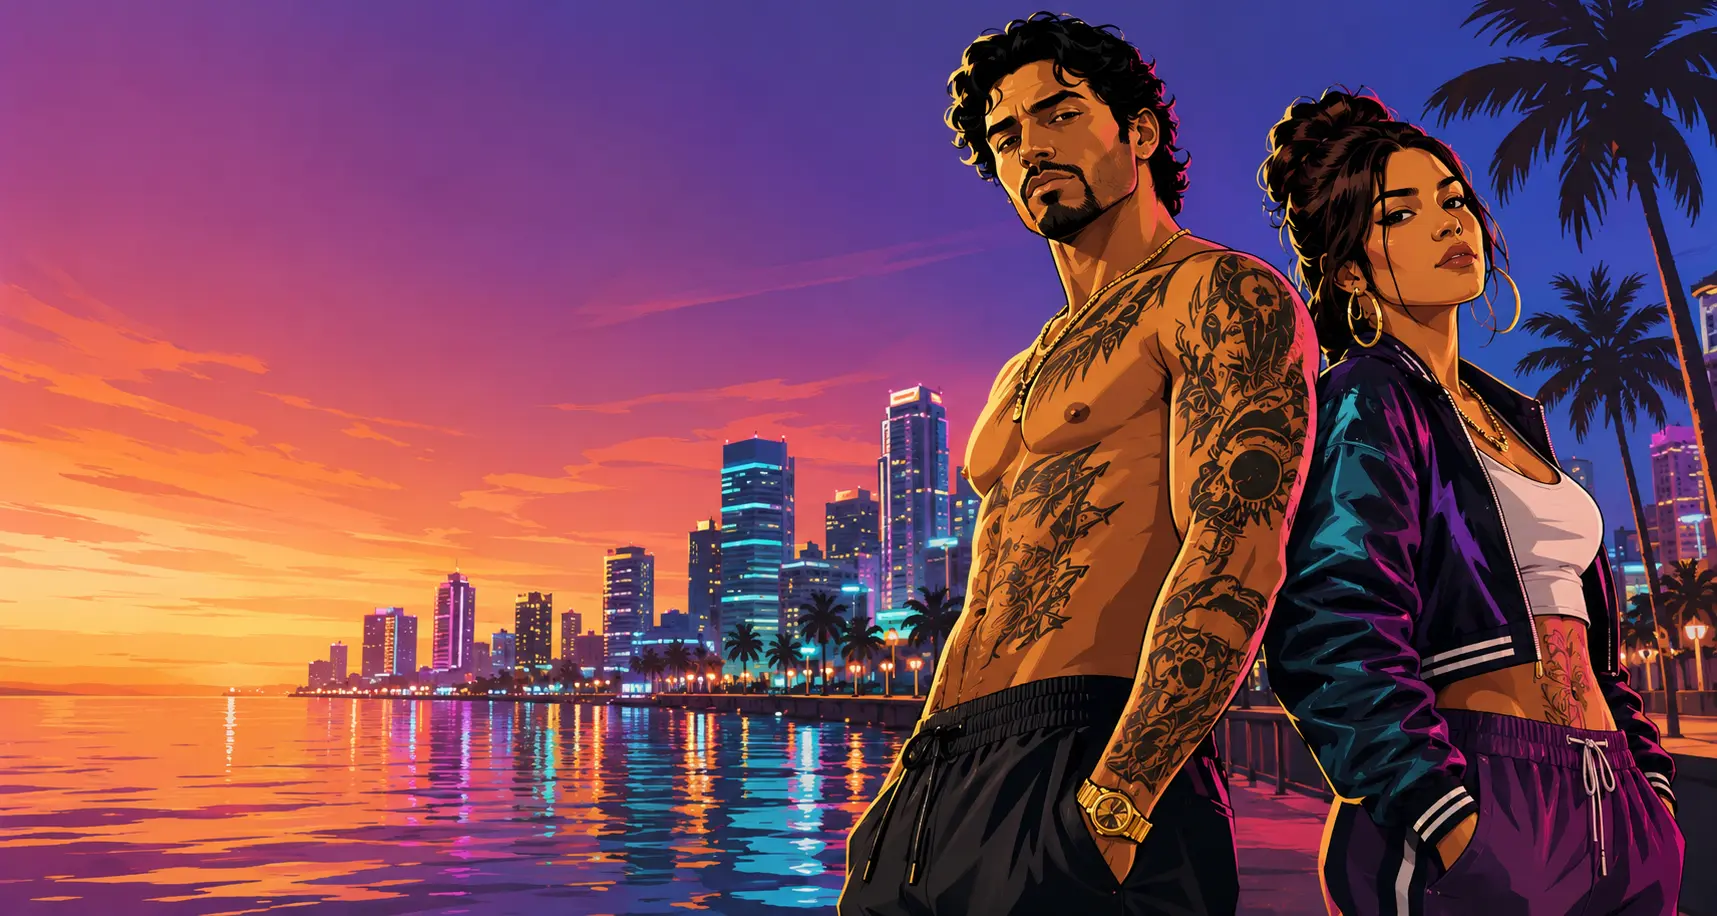
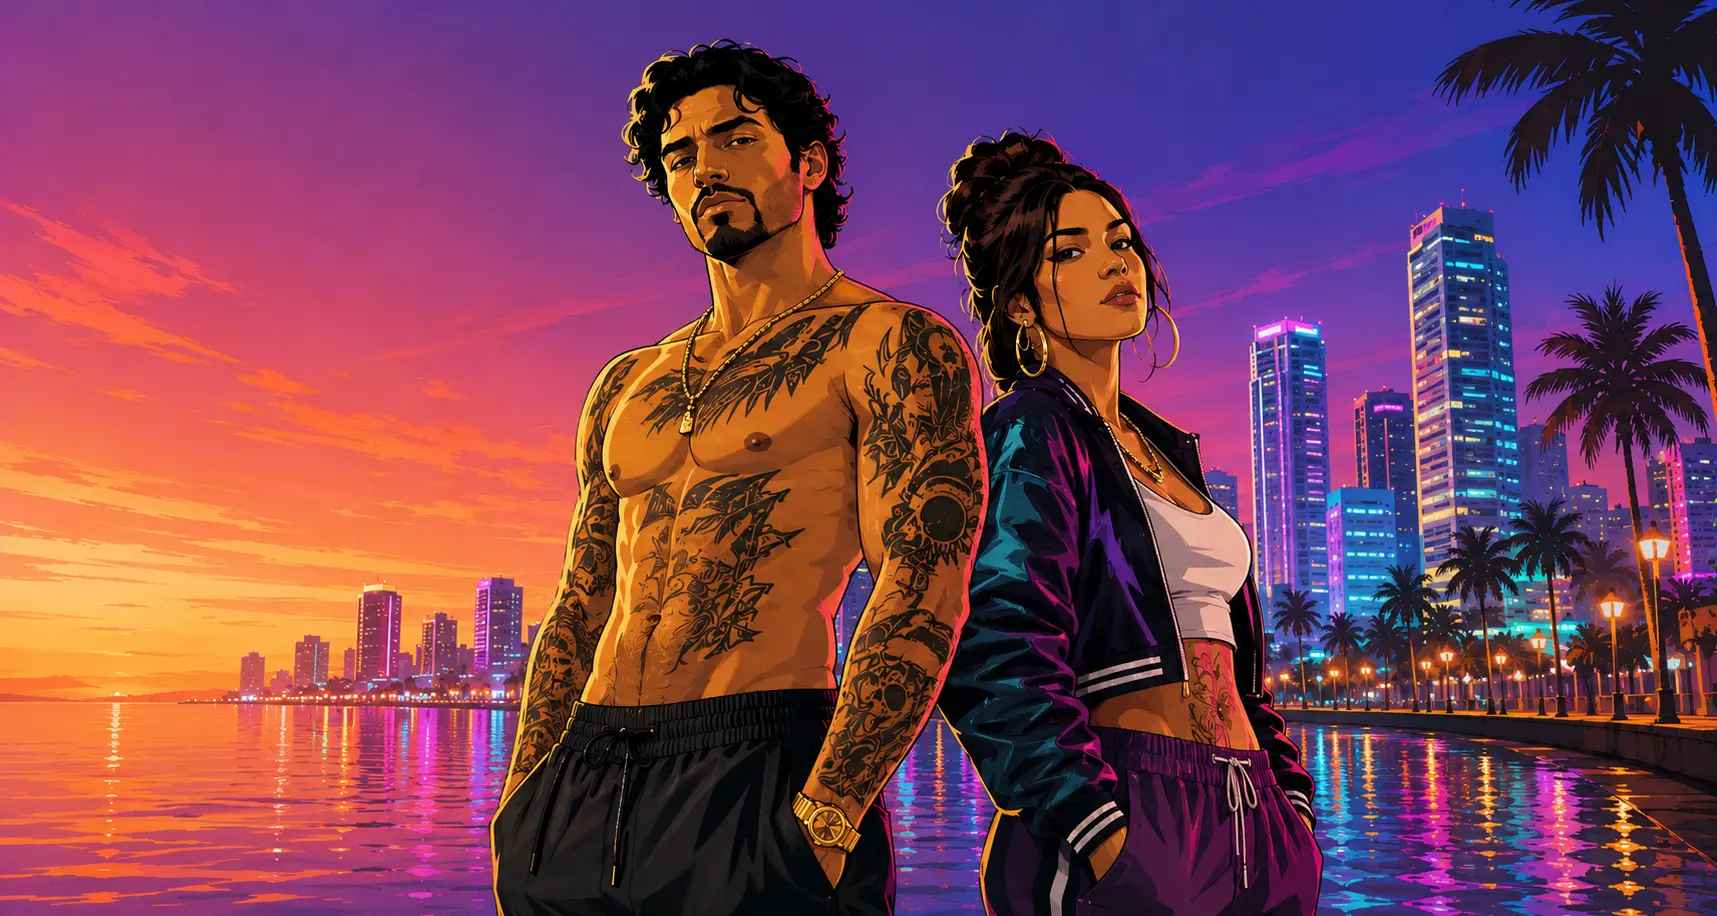
feat(ui): center auth characters and add login panel art (#6)

diff --git a/public/css/v6.css b/public/css/v6.css
@@ -864,3 +864,38 @@ input:focus,textarea:focus,select:focus{
 @media(max-width:850px){
   .auth-panel{background-position:69% 0!important}
 }
+
+
+/* Auth centered character composition + login panel art */
+.auth-story{
+  background:
+    linear-gradient(90deg,rgba(6,10,18,.72) 0%,rgba(6,10,18,.38) 32%,rgba(6,10,18,.05) 82%),
+    linear-gradient(180deg,rgba(8,12,22,.02),rgba(8,12,22,.42)),
+    url("../media/lsrp-login-gangster-duo.webp") center center / cover no-repeat!important;
+}
+.auth-panel:before{
+  content:"";
+  position:absolute;
+  left:0;
+  right:0;
+  top:0;
+  height:226px;
+  z-index:0;
+  pointer-events:none;
+  background:
+    linear-gradient(180deg,rgba(12,17,27,.12) 0%,rgba(12,17,27,.34) 45%,rgba(7,11,18,.98) 100%),
+    url("../media/lsrp-login-panel-lowrider.webp") center 28% / cover no-repeat;
+  opacity:.92;
+}
+.auth-panel:after{z-index:1!important}
+.auth-panel-inner{position:relative;z-index:2}
+@media(max-width:850px){
+  .auth-panel:before{
+    height:190px;
+    background:
+      linear-gradient(180deg,rgba(12,17,27,.10) 0%,rgba(12,17,27,.36) 44%,rgba(7,11,18,.98) 100%),
+      url("../media/lsrp-login-panel-lowrider.webp") center 24% / cover no-repeat;
+    opacity:.86;
+  }
+  .auth-panel-inner{position:relative;z-index:2}
+}
